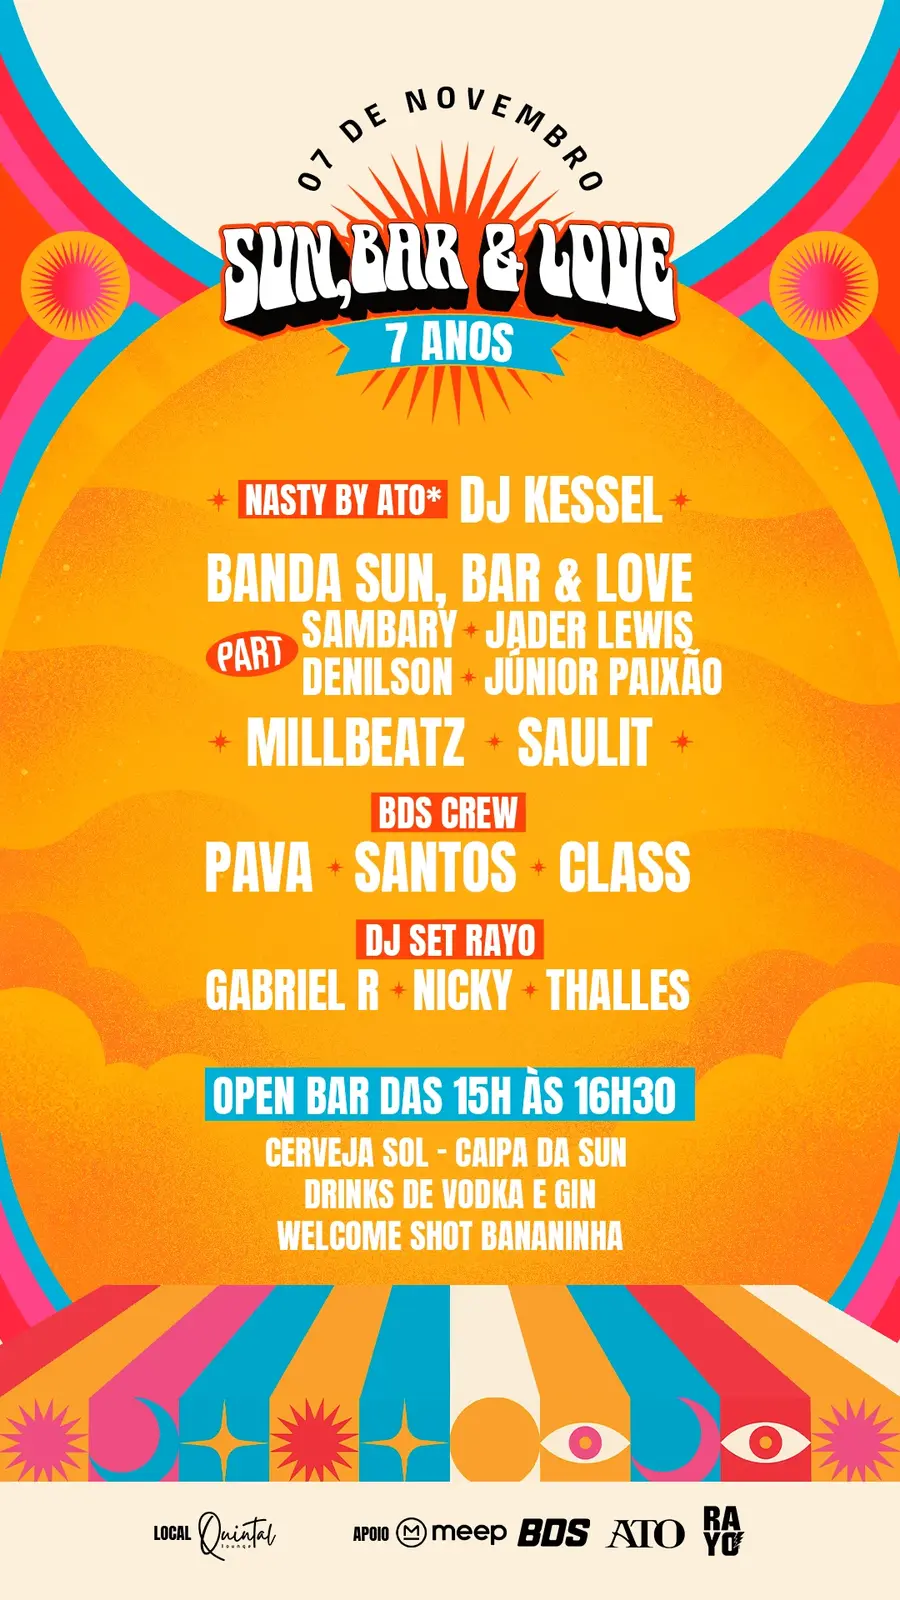
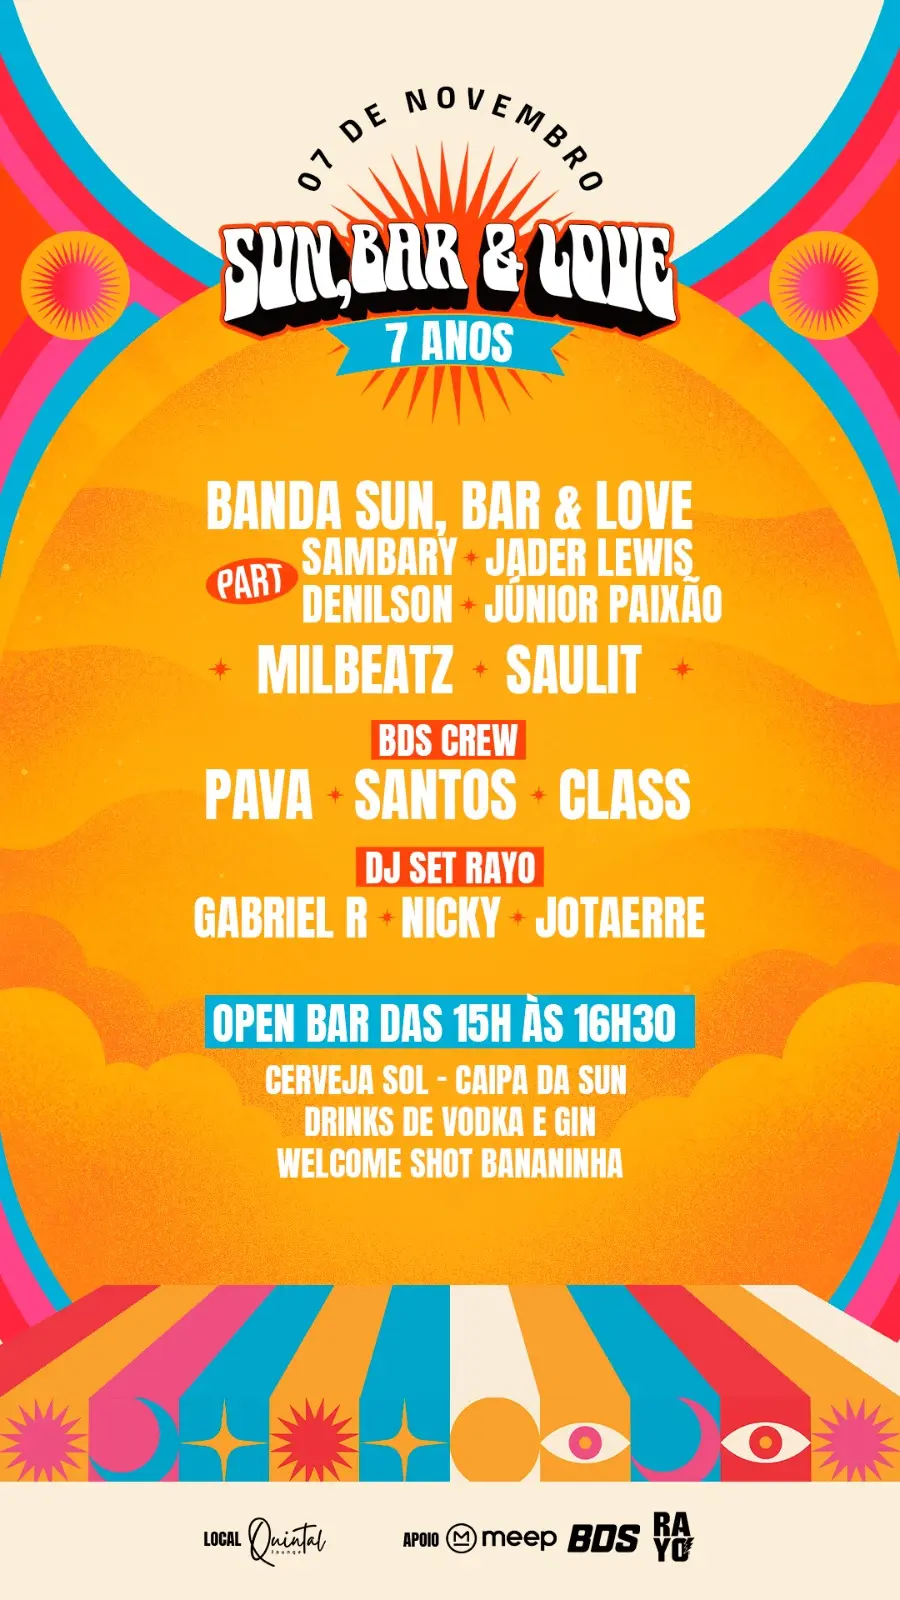
Próximo evento (7 anos): nova arte e atrações atualizadas
- troca o flyer pela nova arte
- remove DJ Kessel (Nasty by ATO) e o apoio ATO
- Thalles vira Jotaerre no DJ Set Rayo; Millbeatz vira Milbeatz

Claude-Session: https://claude.ai/code/session_01BjSy9WHZNNW5tfZpq43TkA

Changed region(s): [[0.2178, 0.2812, 0.8089, 0.7812], [0.1556, 0.9375, 0.84, 1.0]]

diff --git a/src/content.ts b/src/content.ts
@@ -103,17 +103,16 @@ export const EVENTS: SbEvent[] = [
     // TODO: informar o lote atual e quando ele vira, ex: { status: "onsale", lot: "1º lote", lotEndsAt: "2026-11-05T12:00:00-03:00" }
     sale: { status: "onsale" },
     lineup: [
-      { label: "Nasty by ATO", names: ["DJ Kessel"] },
       { label: "Banda Sun, Bar & Love, com participações", names: ["Sambary", "Jader Lewis", "Denilson", "Júnior Paixão"] },
-      { names: ["Millbeatz", "Saulit"] },
+      { names: ["Milbeatz", "Saulit"] },
       { label: "BDS Crew", names: ["Pava", "Santos", "Class"] },
-      { label: "DJ Set Rayo", names: ["Gabriel R", "Nicky", "Thalles"] },
+      { label: "DJ Set Rayo", names: ["Gabriel R", "Nicky", "Jotaerre"] },
     ],
     perk: {
       title: "Open bar das 15h às 16h30",
       items: ["Cerveja Sol", "Caipa da Sun", "Drinks de vodka e gin", "Welcome shot de bananinha"],
     },
-    supporters: ["Meep", "BDS", "ATO", "Rayo"],
+    supporters: ["Meep", "BDS", "Rayo"],
   },
   {
     id: "deck22-9-jan",
